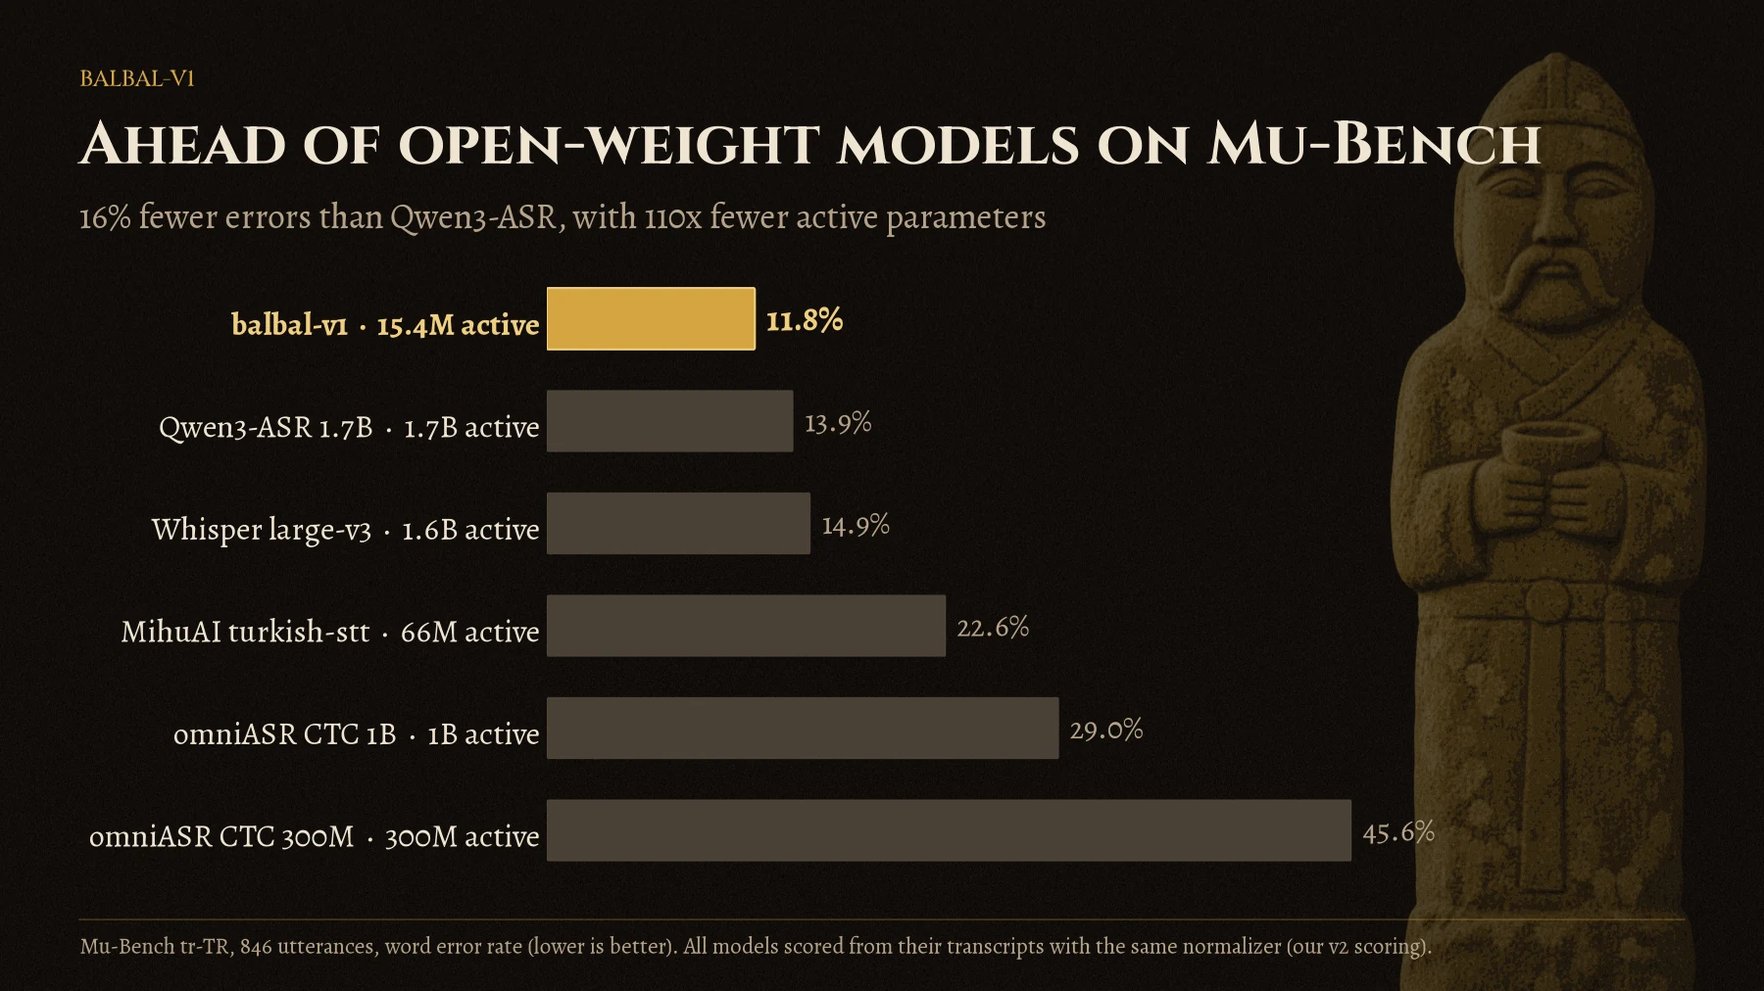
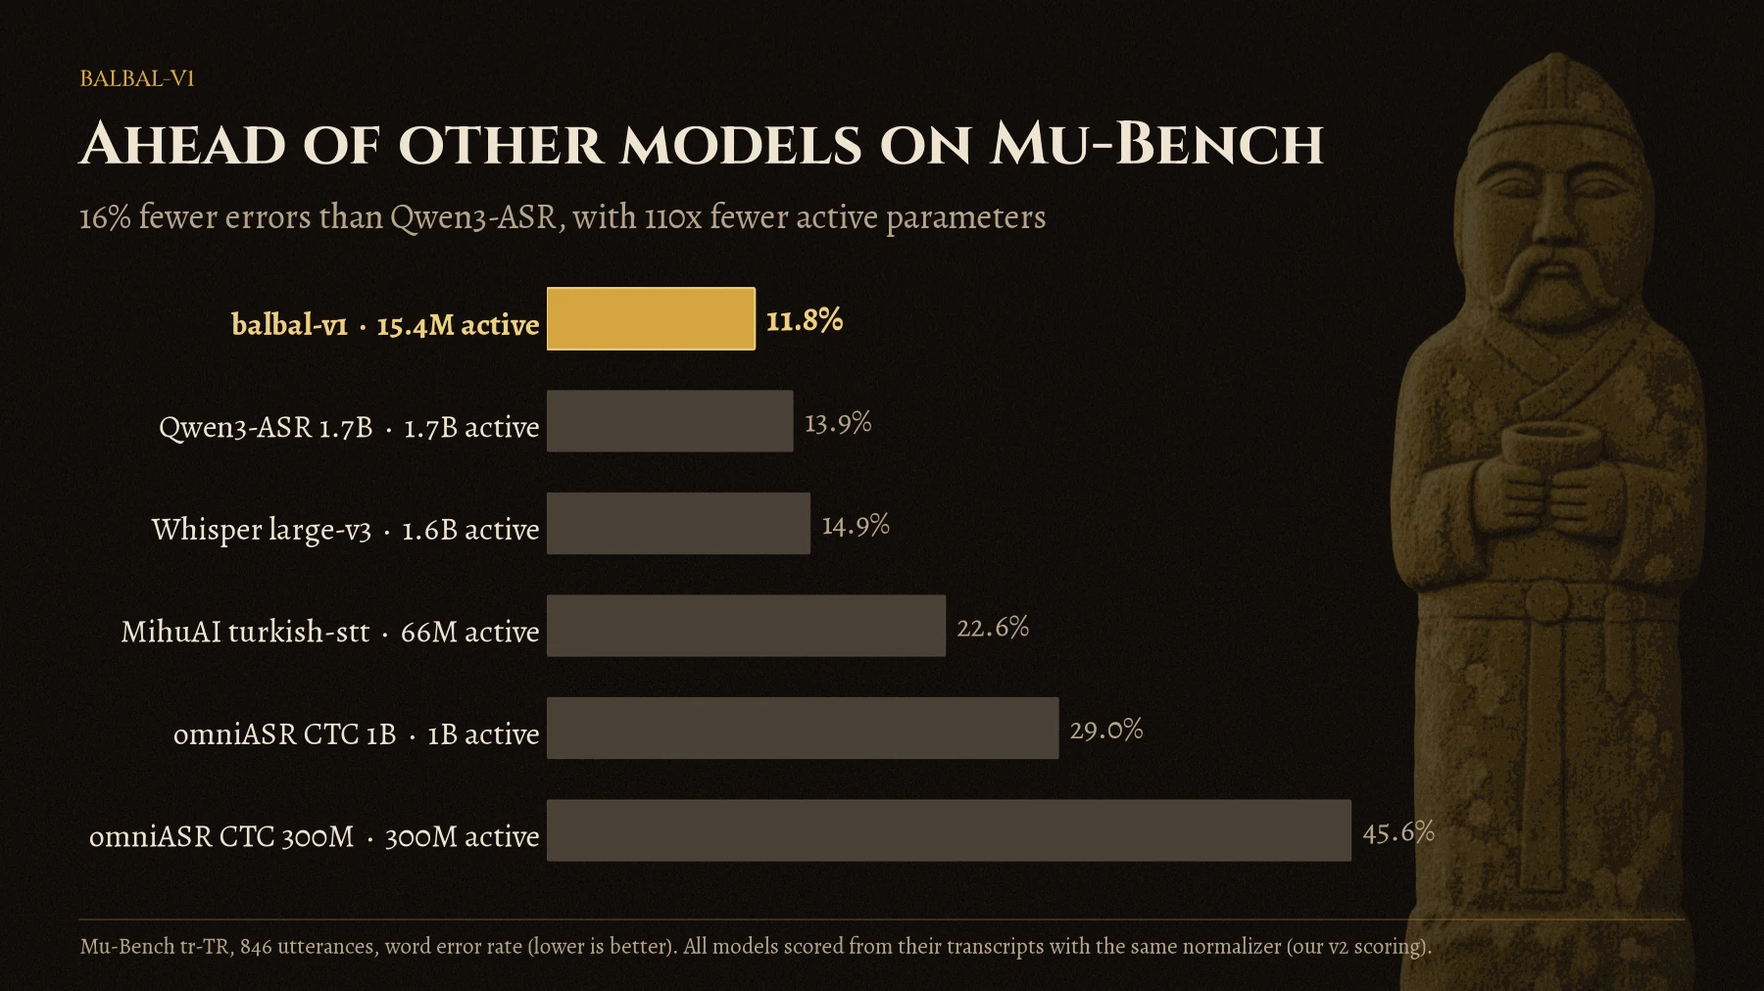
balbal: all-scores table, 'other models' charts, API inference_seconds note, RunPod note

Changed region(s): [[0.2489, 0.1225, 0.8711, 0.1838]]

diff --git a/balbal-blog/index.html b/balbal-blog/index.html
@@ -4,9 +4,9 @@
 <meta charset="utf-8">
 <meta name="viewport" content="width=device-width,initial-scale=1">
 <title>balbal-v1 nasıl yapıldı</title>
-<meta name="description" content="15 milyon aktif parametreli bir Türkçe konuşma tanıma modelini tek başıma, tek bir masaüstü makinede nasıl eğittim.">
+<meta name="description" content="15 milyon aktif parametreli bir Türkçe konuşma tanıma modelini tek başıma nasıl eğittim: mimari, veri, eğitim, değerlendirme.">
 <meta property="og:title" content="balbal-v1 nasıl yapıldı">
-<meta property="og:description" content="15 milyon aktif parametreli bir Türkçe konuşma tanıma modelini tek başıma, tek bir masaüstü makinede nasıl eğittim.">
+<meta property="og:description" content="15 milyon aktif parametreli bir Türkçe konuşma tanıma modelini tek başıma nasıl eğittim: mimari, veri, eğitim, değerlendirme.">
 <meta property="og:url" content="https://erayy.com/balbal-blog">
 <meta property="og:type" content="website">
 <meta property="og:site_name" content="erayy.com">
@@ -196,7 +196,7 @@ document.addEventListener('click', e => {
   <div class="head">
     <p class="eyebrow">Teknik yazı · 14 Ekim 2026</p>
     <h1>balbal-v1 nasıl yapıldı</h1>
-    <p class="standfirst">15 milyon aktif parametreli bir Türkçe konuşma tanıma modelini tek başıma, tek bir masaüstü makinede eğittim. Mimari, veri, eğitim, değerlendirme ve yol boyunca yaptığım hatalar.</p>
+    <p class="standfirst">15 milyon aktif parametreli bir Türkçe konuşma tanıma modelini tek başıma eğittim. İlk Türkçe model RunPod'da, kiralık bir NVIDIA RTX PRO 4500 Blackwell üzerinde yaklaşık 35,6 saat eğitildi; sonraki aşamaların hepsi tek bir masaüstü makinede. Mimari, veri, eğitim, değerlendirme ve yol boyunca yaptığım hatalar.</p>
     <p class="byline">Eray Yapağcı</p>
   </div>
 </div>
@@ -368,14 +368,14 @@ document.addEventListener('click', e => {
     <img src="/balbal/img/1-mubench-vs-apis.webp" alt="Mu-Bench resmi WER çubuk grafiği: balbal-v1 yüzde 11,93 ile ticari API'lerin arasında." loading="lazy" width="1800" height="1012">
     <figcaption><b>Mu-Bench, resmi değerlendirme.</b> API puanları Mu-Bench tablosundan. balbal-v1 aynı düzenekle, gpt-4.1 hakemle ve ITN uygulanarak puanlandı.</figcaption>
   </figure>
-  <h3>Açık ağırlıklı modellerle karşılaştırma</h3>
+  <h3>Diğer modellerle karşılaştırma</h3>
   <p>Açık ağırlıklı modellerin hepsini aynı klipler ve v2 kuralıyla kendim çalıştırdım. Mu-Bench'te (v2, ITN'siz) balbal-v1 <strong>%11,78</strong> ile hepsinin önünde. En yakın rakipler Qwen3-ASR 1.7B (%13,95) ve Whisper large-v3 (%14,92); ikisi de yüz kat büyük. FLEURS'ta durum farklı: Whisper large-v3 (%3,71) ve turbo (%4,07) açık ara önde. balbal-v1'in %6,54'ü Qwen3-ASR 1.7B (%6,52) ile aynı düzeyde. FLEURS temiz, okunmuş Wikipedia cümlelerinden oluşuyor ve büyük modellerin geniş dünya bilgisi burada daha çok işe yarıyor.</p>
   <figure>
-    <img src="/balbal/img/2-mubench-open-models.webp" alt="Mu-Bench'te açık modellerin v2 WER karşılaştırması; balbal-v1 en düşük hata oranıyla en üstte." loading="lazy" width="1800" height="1012">
-    <figcaption><b>Mu-Bench, açık ağırlıklı modeller (v2 puanlama).</b> Her model aynı 846 klip üzerinde aynı kuralla puanlandı.</figcaption>
+    <img src="/balbal/img/2-mubench-open-models.webp" alt="Mu-Bench'te diğer modellerin v2 WER karşılaştırması; balbal-v1 en düşük hata oranıyla en üstte." loading="lazy" width="1800" height="1012">
+    <figcaption><b>Mu-Bench, diğer modeller (v2 puanlama).</b> Her model aynı 846 klip üzerinde aynı kuralla puanlandı.</figcaption>
   </figure>
   <figure>
-    <img src="/balbal/img/3-fleurs-open-models.webp" alt="FLEURS Türkçe test kümesinde açık modellerin WER karşılaştırması; Whisper large-v3 en iyi, balbal-v1 Qwen3-ASR ile yakın." loading="lazy" width="1800" height="1012">
+    <img src="/balbal/img/3-fleurs-open-models.webp" alt="FLEURS Türkçe test kümesinde diğer modellerin WER karşılaştırması; Whisper large-v3 en iyi, balbal-v1 Qwen3-ASR ile yakın." loading="lazy" width="1800" height="1012">
     <figcaption><b>FLEURS Türkçe testi, 743 klip.</b> Temiz, okunmuş konuşma; büyük modellerin en güçlü olduğu alan.</figcaption>
   </figure>
   <h3>MihuAI'nin kendi testi</h3>
@@ -403,6 +403,44 @@ document.addEventListener('click', e => {
     <img src="/balbal/img/6-beta-to-v1.webp" alt="balbal-v1-beta, balbal-v2-beta ve balbal-v1 arasında Mu-Bench ve FLEURS ilerlemesi." loading="lazy" width="1800" height="1012">
     <figcaption><b>Sürümden sürüme.</b> İlerlemenin büyük kısmı Mu-Bench tarzı zor seste geldi. FLEURS'taki fark gürültü içinde.</figcaption>
   </figure>
+
+  <h3>Tüm skorlar</h3>
+  <p>Ölçtüğüm her model, Mu-Bench (846 klip) ve FLEURS Türkçe testi (743 klip) üzerinde. Bizim modellerden yalnızca en iyisini, balbal-v1'i koydum. Satırlar Mu-Bench v2 WER'ine göre sıralı.</p>
+  <div class="table-wrap">
+    <table>
+      <thead><tr><th>Model</th><th>Mu-Bench v2</th><th>Mu-Bench LLM WER</th><th>Significant WER</th><th>FLEURS</th></tr></thead>
+      <tbody>
+        <tr><td>Google Chirp 3</td><td>8,45</td><td>8,03<small>*</small></td><td>14,30<small>*</small></td><td>—</td></tr>
+        <tr><td>ElevenLabs Scribe v2</td><td>8,72</td><td>9,43<small>*</small></td><td>19,15<small>*</small></td><td>—</td></tr>
+        <tr><td>Google Gemini 3.5 Transcribe</td><td>8,75</td><td>8,68<small>*</small></td><td>18,20<small>*</small></td><td>—</td></tr>
+        <tr><td>Freya</td><td>9,72</td><td>9,27</td><td>21,28</td><td>6,61</td></tr>
+        <tr><td>PatientDesk Duyu</td><td>10,02</td><td>10,94</td><td>25,30</td><td>3,62</td></tr>
+        <tr><td>OpenAI GPT-4o Mini Transcribe</td><td>11,30</td><td>12,82<small>*</small></td><td>28,61<small>*</small></td><td>—</td></tr>
+        <tr class="sum"><td>balbal-v1</td><td>11,78</td><td>11,93</td><td>25,18</td><td>6,54</td></tr>
+        <tr><td>Deepgram Nova-3</td><td>12,37</td><td>13,37<small>*</small></td><td>24,35<small>*</small></td><td>—</td></tr>
+        <tr><td>Qwen3-ASR 1.7B (Baseten)</td><td>13,82</td><td>15,03<small>*</small></td><td>31,91<small>*</small></td><td>—</td></tr>
+        <tr><td>Qwen3-ASR 1.7B (Modal)</td><td>13,91</td><td>14,76<small>*</small></td><td>30,61<small>*</small></td><td>—</td></tr>
+        <tr><td>Qwen3-ASR 1.7B</td><td>13,95</td><td>—</td><td>—</td><td>6,52</td></tr>
+        <tr><td>Whisper large-v3</td><td>14,92</td><td>—</td><td>—</td><td>3,71</td></tr>
+        <tr><td>xAI Grok STT</td><td>15,69</td><td>15,94<small>*</small></td><td>34,04<small>*</small></td><td>—</td></tr>
+        <tr><td>omniASR LLM 7B</td><td>18,35</td><td>—</td><td>—</td><td>5,31</td></tr>
+        <tr><td>Microsoft Azure Speech</td><td>18,65</td><td>14,02<small>*</small></td><td>30,73<small>*</small></td><td>—</td></tr>
+        <tr><td>omniASR LLM 3B</td><td>19,21</td><td>—</td><td>—</td><td>6,49</td></tr>
+        <tr><td>omniASR LLM 1B</td><td>19,53</td><td>—</td><td>—</td><td>6,95</td></tr>
+        <tr><td>MihuAI turkish-stt</td><td>22,59</td><td>24,59</td><td>49,53</td><td>8,16</td></tr>
+        <tr><td>omniASR CTC 3B</td><td>24,02</td><td>—</td><td>—</td><td>8,30</td></tr>
+        <tr><td>Whisper small</td><td>24,72</td><td>—</td><td>—</td><td>12,17</td></tr>
+        <tr><td>Whisper large-v3-turbo</td><td>26,77</td><td>—</td><td>—</td><td>4,07</td></tr>
+        <tr><td>omniASR CTC 7B</td><td>27,57</td><td>—</td><td>—</td><td>7,71</td></tr>
+        <tr><td>omniASR CTC 1B</td><td>28,99</td><td>—</td><td>—</td><td>11,33</td></tr>
+        <tr><td>Whisper medium</td><td>33,51</td><td>—</td><td>—</td><td>6,29</td></tr>
+        <tr><td>omniASR CTC 300M</td><td>45,56</td><td>—</td><td>—</td><td>20,88</td></tr>
+        <tr><td>Whisper base</td><td>55,81</td><td>—</td><td>—</td><td>25,99</td></tr>
+        <tr><td>Whisper tiny</td><td>94,66</td><td>—</td><td>—</td><td>42,43</td></tr>
+      </tbody>
+    </table>
+  </div>
+  <p>Tüm değerler yüzde. <b>Mu-Bench v2</b> ve <b>FLEURS</b>: v2 puanlamasıyla WER, ITN'siz; her modelin metnini aynı kuralla kendim puanladım. Ticari API'lerin Mu-Bench metinleri Mu-Bench deposundan; Freya ve PatientDesk'i kendim çağırdım. <b>Mu-Bench LLM WER</b>: resmi değerlendirmede gpt-4.1'in referansı ve çıktıyı normalleştirdikten sonra hesaplanan WER. <b>Significant WER</b>: gpt-4.1 hakeme göre anlamı bozan en az bir hata içeren cümlelerin oranı. Bu iki sütunu balbal-v1, Freya, PatientDesk Duyu ve MihuAI turkish-stt için resmi düzeneği kendim çalıştırarak hesapladım; <small>*</small> işaretliler Mu-Bench'in yayımladığı tablodan. "—": ölçülmedi.</p>
 
   <h2 id="hiz"><span class="n">8</span>Hız</h2>
   <p>Hızı tüm modeller için aynı yöntemle ölçtüm. 100 klip kullandım (50 FLEURS, 50 Mu-Bench). Her model 8 işlemci çekirdeğinde, batch boyutu 1 ile, klipleri tek tek işledi. Ölçülen süre, ham sesin girmesinden metnin çıkmasına kadar geçen süre: öznitelik çıkarma, ağ ve (balbal için) dil modelli ışın araması dahil. Makinenin hızı günden güne değişebildiği için bütün modelleri aynı oturumda ölçtüm.</p>
@@ -433,7 +471,7 @@ document.addEventListener('click', e => {
     <li><strong>Sayılar yazıyla çıkar.</strong> Rakam isteyen uygulamaların ayrı bir ITN adımı eklemesi gerekiyor.</li>
     <li><strong>Yalnızca Türkçe.</strong> Eğitimde bir miktar İngilizce (LibriSpeech) var, ama model İngilizce için ayarlanmadı ve bu yazıda İngilizce ölçülmedi.</li>
     <li><strong>Uzun kayıtlar.</strong> API istek başına en fazla 30 saniye ses yazıyor; daha uzun kayıtları parçalayıp göndermek gerekiyor. Konuşma algılama (VAD) yok.</li>
-    <li><strong>API gecikmesi.</strong> API bir Cloudflare tüneli üzerinden sunuluyor; bu, her isteğe yaklaşık 100–200 ms ekliyor. 8. bölümdeki hızı şimdilik API üzerinden göremezsiniz.</li>
+    <li><strong>API gecikmesi.</strong> API bir Cloudflare tüneli üzerinden sunuluyor; bu, her isteğe yaklaşık 100–200 ms ekliyor. Bu yüzden 8. bölümdeki hızı yanıtın gelme süresinde göremezsiniz; ama sunucu, modelin işlem süresini yanıttaki <code>inference_seconds</code> alanında döner.</li>
     <li><strong>İsimler ve harf harf okuma</strong> hâlâ en zayıf kategoriler. Bir sonraki veri turunun hedefi bunlar.</li>
     <li><strong>Ağırlıklar şimdilik kapalı.</strong></li>
   </ul>
@@ -479,7 +517,7 @@ document.addEventListener('click', e => {
   <div class="head">
     <p class="eyebrow">Technical post · 14 October 2026</p>
     <h1>How balbal-v1 was built</h1>
-    <p class="standfirst">I trained a Turkish speech recognition model with 15 million active parameters on my own, on a single desktop machine. Architecture, data, training, evaluation and the mistakes I made along the way.</p>
+    <p class="standfirst">I trained a Turkish speech recognition model with 15 million active parameters on my own. The first Turkish model trained for about 35.6 hours on a rented NVIDIA RTX PRO 4500 Blackwell on RunPod; every later stage ran on a single desktop machine. Architecture, data, training, evaluation and the mistakes I made along the way.</p>
     <p class="byline">Eray Yapağcı</p>
   </div>
 </div>
@@ -651,14 +689,14 @@ document.addEventListener('click', e => {
     <img src="/balbal/img/1-mubench-vs-apis.webp" alt="Mu-Bench official WER bar chart: balbal-v1 at 11.93 percent among the commercial APIs." loading="lazy" width="1800" height="1012">
     <figcaption><b>Mu-Bench, official evaluation.</b> API scores from the Mu-Bench leaderboard. balbal-v1 was scored with the same harness, the gpt-4.1 judge and ITN applied.</figcaption>
   </figure>
-  <h3>Against open-weight models</h3>
+  <h3>Against other models</h3>
   <p>I ran all the open-weight models myself on the same clips with the v2 rule. On Mu-Bench (v2, no ITN) balbal-v1 leads them all with <strong>11.78%</strong>. The closest are Qwen3-ASR 1.7B (13.95%) and Whisper large-v3 (14.92%), both a hundred times larger. FLEURS is a different story: Whisper large-v3 (3.71%) and turbo (4.07%) are clearly ahead. balbal-v1's 6.54% is on par with Qwen3-ASR 1.7B (6.52%). FLEURS consists of clean, read Wikipedia sentences, where the broad world knowledge of large models helps more.</p>
   <figure>
-    <img src="/balbal/img/2-mubench-open-models.webp" alt="v2 WER of open models on Mu-Bench; balbal-v1 at the top with the lowest error rate." loading="lazy" width="1800" height="1012">
-    <figcaption><b>Mu-Bench, open-weight models (v2 scoring).</b> Every model was scored on the same 846 clips with the same rule.</figcaption>
+    <img src="/balbal/img/2-mubench-open-models.webp" alt="v2 WER of other models on Mu-Bench; balbal-v1 at the top with the lowest error rate." loading="lazy" width="1800" height="1012">
+    <figcaption><b>Mu-Bench, other models (v2 scoring).</b> Every model was scored on the same 846 clips with the same rule.</figcaption>
   </figure>
   <figure>
-    <img src="/balbal/img/3-fleurs-open-models.webp" alt="WER of open models on the FLEURS Turkish test set; Whisper large-v3 best, balbal-v1 close to Qwen3-ASR." loading="lazy" width="1800" height="1012">
+    <img src="/balbal/img/3-fleurs-open-models.webp" alt="WER of other models on the FLEURS Turkish test set; Whisper large-v3 best, balbal-v1 close to Qwen3-ASR." loading="lazy" width="1800" height="1012">
     <figcaption><b>FLEURS Turkish test, 743 clips.</b> Clean, read speech; where large models are strongest.</figcaption>
   </figure>
   <h3>MihuAI's own test</h3>
@@ -686,6 +724,44 @@ document.addEventListener('click', e => {
     <img src="/balbal/img/6-beta-to-v1.webp" alt="Mu-Bench and FLEURS progress across balbal-v1-beta, balbal-v2-beta and balbal-v1." loading="lazy" width="1800" height="1012">
     <figcaption><b>Release to release.</b> Most of the progress came on hard, Mu-Bench-style audio. The FLEURS difference is within noise.</figcaption>
   </figure>
+
+  <h3>All scores</h3>
+  <p>Every model I measured, on Mu-Bench (846 clips) and the FLEURS Turkish test (743 clips). Of our own models I list only the best one, balbal-v1. Rows are sorted by Mu-Bench v2 WER.</p>
+  <div class="table-wrap">
+    <table>
+      <thead><tr><th>Model</th><th>Mu-Bench v2</th><th>Mu-Bench LLM WER</th><th>Significant WER</th><th>FLEURS</th></tr></thead>
+      <tbody>
+        <tr><td>Google Chirp 3</td><td>8.45</td><td>8.03<small>*</small></td><td>14.30<small>*</small></td><td>—</td></tr>
+        <tr><td>ElevenLabs Scribe v2</td><td>8.72</td><td>9.43<small>*</small></td><td>19.15<small>*</small></td><td>—</td></tr>
+        <tr><td>Google Gemini 3.5 Transcribe</td><td>8.75</td><td>8.68<small>*</small></td><td>18.20<small>*</small></td><td>—</td></tr>
+        <tr><td>Freya</td><td>9.72</td><td>9.27</td><td>21.28</td><td>6.61</td></tr>
+        <tr><td>PatientDesk Duyu</td><td>10.02</td><td>10.94</td><td>25.30</td><td>3.62</td></tr>
+        <tr><td>OpenAI GPT-4o Mini Transcribe</td><td>11.30</td><td>12.82<small>*</small></td><td>28.61<small>*</small></td><td>—</td></tr>
+        <tr class="sum"><td>balbal-v1</td><td>11.78</td><td>11.93</td><td>25.18</td><td>6.54</td></tr>
+        <tr><td>Deepgram Nova-3</td><td>12.37</td><td>13.37<small>*</small></td><td>24.35<small>*</small></td><td>—</td></tr>
+        <tr><td>Qwen3-ASR 1.7B (Baseten)</td><td>13.82</td><td>15.03<small>*</small></td><td>31.91<small>*</small></td><td>—</td></tr>
+        <tr><td>Qwen3-ASR 1.7B (Modal)</td><td>13.91</td><td>14.76<small>*</small></td><td>30.61<small>*</small></td><td>—</td></tr>
+        <tr><td>Qwen3-ASR 1.7B</td><td>13.95</td><td>—</td><td>—</td><td>6.52</td></tr>
+        <tr><td>Whisper large-v3</td><td>14.92</td><td>—</td><td>—</td><td>3.71</td></tr>
+        <tr><td>xAI Grok STT</td><td>15.69</td><td>15.94<small>*</small></td><td>34.04<small>*</small></td><td>—</td></tr>
+        <tr><td>omniASR LLM 7B</td><td>18.35</td><td>—</td><td>—</td><td>5.31</td></tr>
+        <tr><td>Microsoft Azure Speech</td><td>18.65</td><td>14.02<small>*</small></td><td>30.73<small>*</small></td><td>—</td></tr>
+        <tr><td>omniASR LLM 3B</td><td>19.21</td><td>—</td><td>—</td><td>6.49</td></tr>
+        <tr><td>omniASR LLM 1B</td><td>19.53</td><td>—</td><td>—</td><td>6.95</td></tr>
+        <tr><td>MihuAI turkish-stt</td><td>22.59</td><td>24.59</td><td>49.53</td><td>8.16</td></tr>
+        <tr><td>omniASR CTC 3B</td><td>24.02</td><td>—</td><td>—</td><td>8.30</td></tr>
+        <tr><td>Whisper small</td><td>24.72</td><td>—</td><td>—</td><td>12.17</td></tr>
+        <tr><td>Whisper large-v3-turbo</td><td>26.77</td><td>—</td><td>—</td><td>4.07</td></tr>
+        <tr><td>omniASR CTC 7B</td><td>27.57</td><td>—</td><td>—</td><td>7.71</td></tr>
+        <tr><td>omniASR CTC 1B</td><td>28.99</td><td>—</td><td>—</td><td>11.33</td></tr>
+        <tr><td>Whisper medium</td><td>33.51</td><td>—</td><td>—</td><td>6.29</td></tr>
+        <tr><td>omniASR CTC 300M</td><td>45.56</td><td>—</td><td>—</td><td>20.88</td></tr>
+        <tr><td>Whisper base</td><td>55.81</td><td>—</td><td>—</td><td>25.99</td></tr>
+        <tr><td>Whisper tiny</td><td>94.66</td><td>—</td><td>—</td><td>42.43</td></tr>
+      </tbody>
+    </table>
+  </div>
+  <p>All values are percentages. <b>Mu-Bench v2</b> and <b>FLEURS</b>: WER under v2 scoring, no ITN; I scored every model's transcripts myself with the same rule. The commercial APIs' Mu-Bench transcripts come from the Mu-Bench repository; I called Freya and PatientDesk myself. <b>Mu-Bench LLM WER</b>: the official evaluation's WER, computed after gpt-4.1 normalizes the reference and the output. <b>Significant WER</b>: the share of sentences with at least one meaning-changing error according to the gpt-4.1 judge. I computed these two columns for balbal-v1, Freya, PatientDesk Duyu and MihuAI turkish-stt by running the official harness myself; values marked <small>*</small> come from the table Mu-Bench publishes. "—": not measured.</p>
 
   <h2 id="speed"><span class="n">8</span>Speed</h2>
   <p>I measured speed the same way for every model. I used 100 clips (50 FLEURS, 50 Mu-Bench). Each model processed the clips one by one on 8 CPU cores with batch size 1. The measured time runs from raw audio in to text out: feature extraction, the network and (for balbal) the beam search with the language model included. Because the machine's speed can vary from day to day, I measured all models in the same session.</p>
@@ -716,7 +792,7 @@ document.addEventListener('click', e => {
     <li><strong>Numbers come out as words.</strong> Applications that need digits have to add a separate ITN step.</li>
     <li><strong>Turkish only.</strong> Training includes some English (LibriSpeech), but the model was not tuned for English and English was not measured in this post.</li>
     <li><strong>Long recordings.</strong> The API transcribes at most 30 seconds of audio per request; longer recordings have to be split before sending. There is no voice activity detection (VAD).</li>
-    <li><strong>API latency.</strong> The API is served through a Cloudflare tunnel, which adds roughly 100–200 ms to each request. For now you will not see the speed from section 8 through the API.</li>
+    <li><strong>API latency.</strong> The API is served through a Cloudflare tunnel, which adds roughly 100–200 ms to each request. So you will not see the speed from section 8 in how long the response takes, but the server returns the model's processing time in the response's <code>inference_seconds</code> field.</li>
     <li><strong>Names and spelling</strong> are still the weakest categories. They are the target of the next data round.</li>
     <li><strong>The weights are closed for now.</strong></li>
   </ul>

diff --git a/balbal/index.html b/balbal/index.html
@@ -83,6 +83,7 @@ h1 { margin: 0 0 20px; font: 700 clamp(46px, 8vw, 92px) / 1 var(--display); lett
 section.block { padding-block: 88px 0; }
 .block h2 { margin: 0 0 10px; font: 700 clamp(28px, 3.6vw, 40px) / 1.15 var(--display); text-wrap: balance; }
 .block .sub { margin: 0 0 30px; max-width: 680px; color: var(--muted); font-size: 19px; }
+code { font: .86em/1.4 ui-monospace, "SFMono-Regular", Menlo, Consolas, monospace; background: var(--panel-2); border: 1px solid var(--edge-soft); border-radius: 4px; padding: .08em .35em; color: var(--bone); overflow-wrap: anywhere; }
 .note { margin: 16px 0 0; max-width: 760px; font: 15px/1.5 var(--data); color: var(--muted); }
 .panel { border: 1px solid var(--edge); border-radius: 10px; background: linear-gradient(180deg, var(--panel-2), var(--panel)); padding: 26px 28px; }
 
@@ -319,7 +320,7 @@ document.addEventListener('click', e => {
     <div class="limits">
       <div><h3>Yalnızca Türkçe</h3><p>Eğitimde biraz İngilizce de vardı, ama İngilizce konuşmada iyi sonuç vermez.</p></div>
       <div><h3>Kısa kayıtlar</h3><p>API istek başına en fazla 30 saniye ses yazar. Daha uzun kayıtları parçalayıp gönder.</p></div>
-      <div><h3>API gecikmesi</h3><p>API bir Cloudflare tüneli üzerinden sunuluyor; bu, her isteğe yaklaşık 100–200 ms ekliyor. Modelin gerçek hızını şimdilik API'den ölçemezsin.</p></div>
+      <div><h3>API gecikmesi</h3><p>API bir Cloudflare tüneli üzerinden sunuluyor; bu, her isteğe yaklaşık 100–200 ms ekliyor. Bu yüzden modelin gerçek hızını yanıtın ne kadar sürede geldiğinden ölçemezsin; ama sunucu, modelin işlem süresini yanıttaki <code>inference_seconds</code> alanında döner.</p></div>
     </div>
   </section>
 </main>
@@ -453,7 +454,7 @@ document.addEventListener('click', e => {
     <div class="limits">
       <div><h3>Turkish only</h3><p>There was some English in training, but it does not do well on English speech.</p></div>
       <div><h3>Short recordings</h3><p>The API transcribes at most 30 seconds of audio per request. Split longer recordings before sending them.</p></div>
-      <div><h3>API latency</h3><p>The API is served through a Cloudflare tunnel, which adds roughly 100–200 ms to each request. For now you cannot measure the model's real speed through the API.</p></div>
+      <div><h3>API latency</h3><p>The API is served through a Cloudflare tunnel, which adds roughly 100–200 ms to each request. So you cannot measure the model's real speed from how long the response takes, but the server returns the model's processing time in the response's <code>inference_seconds</code> field.</p></div>
     </div>
   </section>
 </main>
